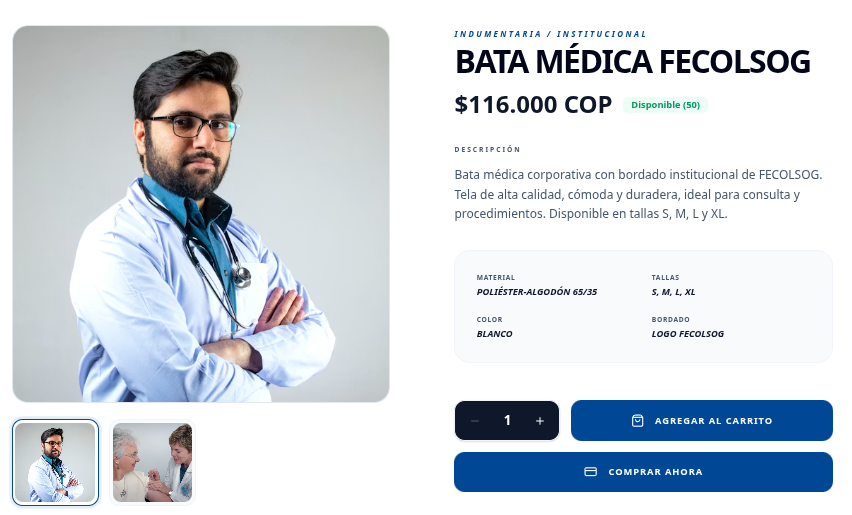
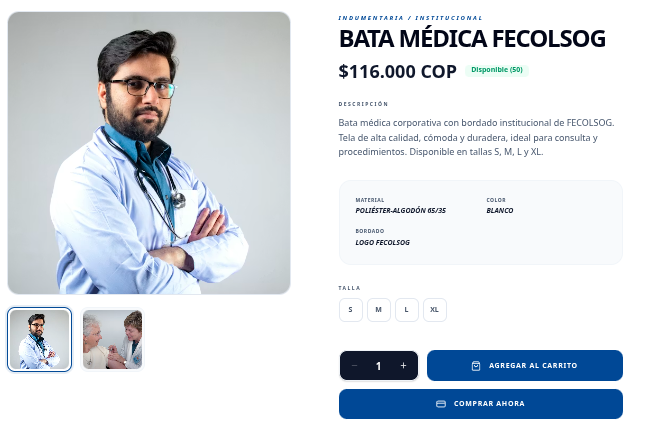
feat: add size selection functionality and improve cart item handling

diff --git a/src/store/cartStore.ts b/src/store/cartStore.ts
@@ -10,6 +10,11 @@ export interface CartItem {
     category?: string;
     discount?: number;
     stock?: number;
+    size?: string;
+}
+
+export function cartItemKey(id: string, size?: string): string {
+    return size ? `${id}__${size}` : id;
 }
 
 export const isCartOpen = atom(false);
@@ -45,52 +50,48 @@ export function closeCart() {
 
 export function addToCart(product: Omit<CartItem, 'quantity'>, qty: number = 1) {
     const items = cartItems.get();
+    const key = cartItemKey(product.id, product.size);
     const currentStock = getEffectiveStock(product.id, product.stock || 0);
-    const existingItem = items.find((item) => item.id === product.id);
+    const existingItem = items.find(item => cartItemKey(item.id, item.size) === key);
 
     if (existingItem) {
         const newQuantity = existingItem.quantity + qty;
-
-        // Stock limit check
         if (newQuantity > currentStock) {
             return { success: false, message: `Solo quedan ${currentStock} unidades disponibles` };
         }
-
         cartItems.set(
-            items.map((item) =>
-                item.id === product.id
+            items.map(item =>
+                cartItemKey(item.id, item.size) === key
                     ? { ...item, quantity: Math.max(0, newQuantity) }
                     : item
             ).filter(item => item.quantity > 0)
         );
     } else if (qty > 0) {
-            // Stock limit check for new item
-            if (qty > currentStock) {
-                return { success: false, message: `Solo quedan ${currentStock} unidades disponibles` };
-            }
-            cartItems.set([...items, { ...product, quantity: qty, stock: currentStock }]);
-        }
-    return { success: true, message: `${product.name} agregado al carrito` };
-}
-
-export function removeFromCart(productId: string) {
-    cartItems.set(cartItems.get().filter((item) => item.id !== productId));
-}
-
-export function updateQuantity(productId: string, qty: number) {
-    const items = cartItems.get();
-    const item = items.find(i => i.id === productId);
-
-    if (item) {
-        const currentStock = getEffectiveStock(productId, item.stock || 0);
         if (qty > currentStock) {
             return { success: false, message: `Solo quedan ${currentStock} unidades disponibles` };
         }
+        cartItems.set([...items, { ...product, quantity: qty, stock: currentStock }]);
+    }
+    return { success: true, message: `${product.name} agregado al carrito` };
+}
 
+export function removeFromCart(key: string) {
+    cartItems.set(cartItems.get().filter(item => cartItemKey(item.id, item.size) !== key));
+}
+
+export function updateQuantity(key: string, qty: number) {
+    const items = cartItems.get();
+    const item = items.find(i => cartItemKey(i.id, i.size) === key);
+
+    if (item) {
+        const currentStock = getEffectiveStock(item.id, item.stock || 0);
+        if (qty > currentStock) {
+            return { success: false, message: `Solo quedan ${currentStock} unidades disponibles` };
+        }
         cartItems.set(
-            items.map((item) =>
-                item.id === productId ? { ...item, quantity: Math.max(0, qty) } : item
-            ).filter(item => item.quantity > 0)
+            items.map(i =>
+                cartItemKey(i.id, i.size) === key ? { ...i, quantity: Math.max(0, qty) } : i
+            ).filter(i => i.quantity > 0)
         );
         return { success: true };
     }

diff --git a/src/data/products.ts b/src/data/products.ts
@@ -12,6 +12,7 @@ export interface Product {
     badge?: string;
     discount?: number;
     specs?: { label: string; value: string }[];
+    sizes?: string[];
 }
 
 export const products: Product[] = [
@@ -31,6 +32,7 @@ export const products: Product[] = [
         ],
         slug: "bata-medica-fecolsog",
         badge: "Institucional",
+        sizes: ["S", "M", "L", "XL"],
         specs: [
             { label: "Material", value: "Poliéster-Algodón 65/35" },
             { label: "Tallas", value: "S, M, L, XL" },
@@ -54,6 +56,7 @@ export const products: Product[] = [
         slug: "bata-medica-pin-fecolsog",
         badge: "Pack",
         discount: 3,
+        sizes: ["S", "M", "L", "XL"],
         specs: [
             { label: "Incluye", value: "Bata + Pin Dorado" },
             { label: "Tallas", value: "S, M, L, XL" },
@@ -76,6 +79,7 @@ export const products: Product[] = [
         ],
         slug: "traje-antifluido-fecolsog",
         badge: "Protección",
+        sizes: ["S", "M", "L"],
         specs: [
             { label: "Material", value: "SMS Antifluido" },
             { label: "Tallas", value: "S, M, L" },
@@ -99,6 +103,7 @@ export const products: Product[] = [
         slug: "traje-antifluido-pin-fecolsog",
         badge: "Pack",
         discount: 3,
+        sizes: ["S", "M", "L"],
         specs: [
             { label: "Incluye", value: "Traje + Pin Dorado" },
             { label: "Tallas", value: "S, M, L" },
@@ -142,6 +147,7 @@ export const products: Product[] = [
         ],
         slug: "guantes-examinacion-latex",
         badge: "Bestseller",
+        sizes: ["S", "M", "L"],
         specs: [
             { label: "Unidades", value: "100 por caja" },
             { label: "Material", value: "Látex natural" },
@@ -536,6 +542,7 @@ export const products: Product[] = [
             "https://images.unsplash.com/photo-1559056199-641a0ac8b55e?q=80&w=800&auto=format&fit=crop"
         ],
         slug: "polo-corporativo-fecolsog",
+        sizes: ["S", "M", "L", "XL", "XXL"],
         specs: [
             { label: "Material", value: "Piqué algodón 100%" },
             { label: "Tallas", value: "S, M, L, XL, XXL" },
